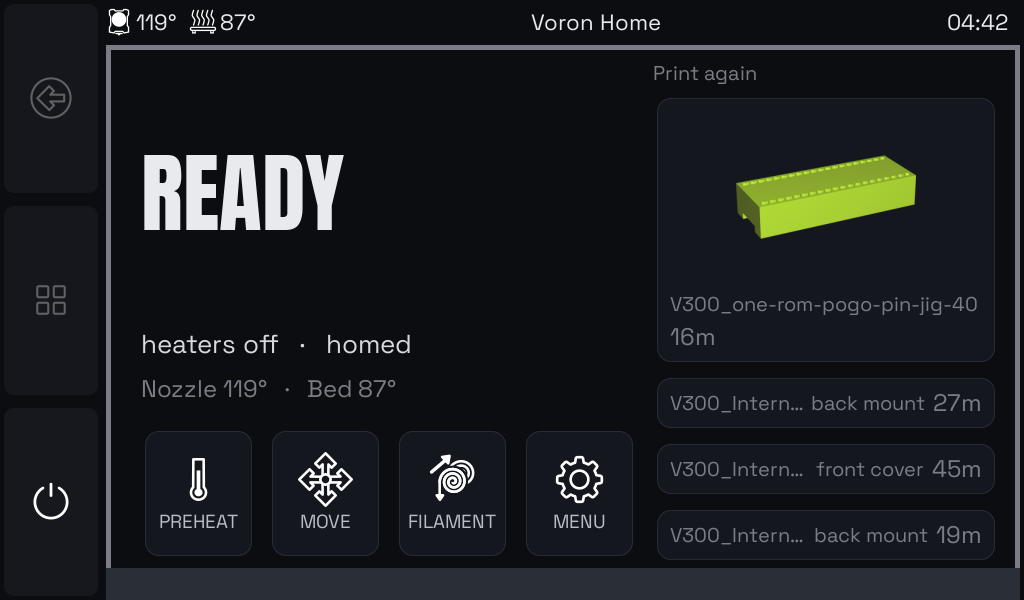
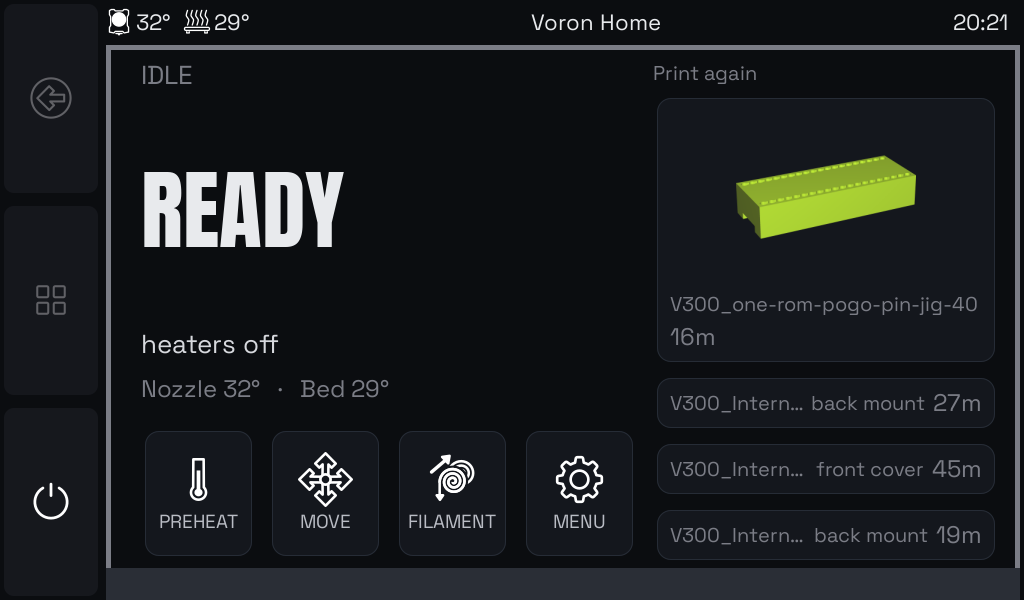
Home: IDLE phase title above the READY hero, per the original mock

diff --git a/src/panels/glance_home.py b/src/panels/glance_home.py
@@ -40,6 +40,9 @@ class Panel(ScreenPanel):
 
         hero = Gtk.Box(orientation=Gtk.Orientation.VERTICAL, hexpand=True, vexpand=True)
         hero.get_style_context().add_class("glance-hero")
+        phase = Gtk.Label(label=_("IDLE"), xalign=0)
+        phase.get_style_context().add_class("glance-phase")
+        hero.pack_start(phase, False, False, 0)
         hero.pack_start(self.big_lbl, True, True, 0)
         hero.pack_start(self.sub_lbl, False, False, 0)
         hero.pack_start(self.temps_lbl, False, False, 6)
